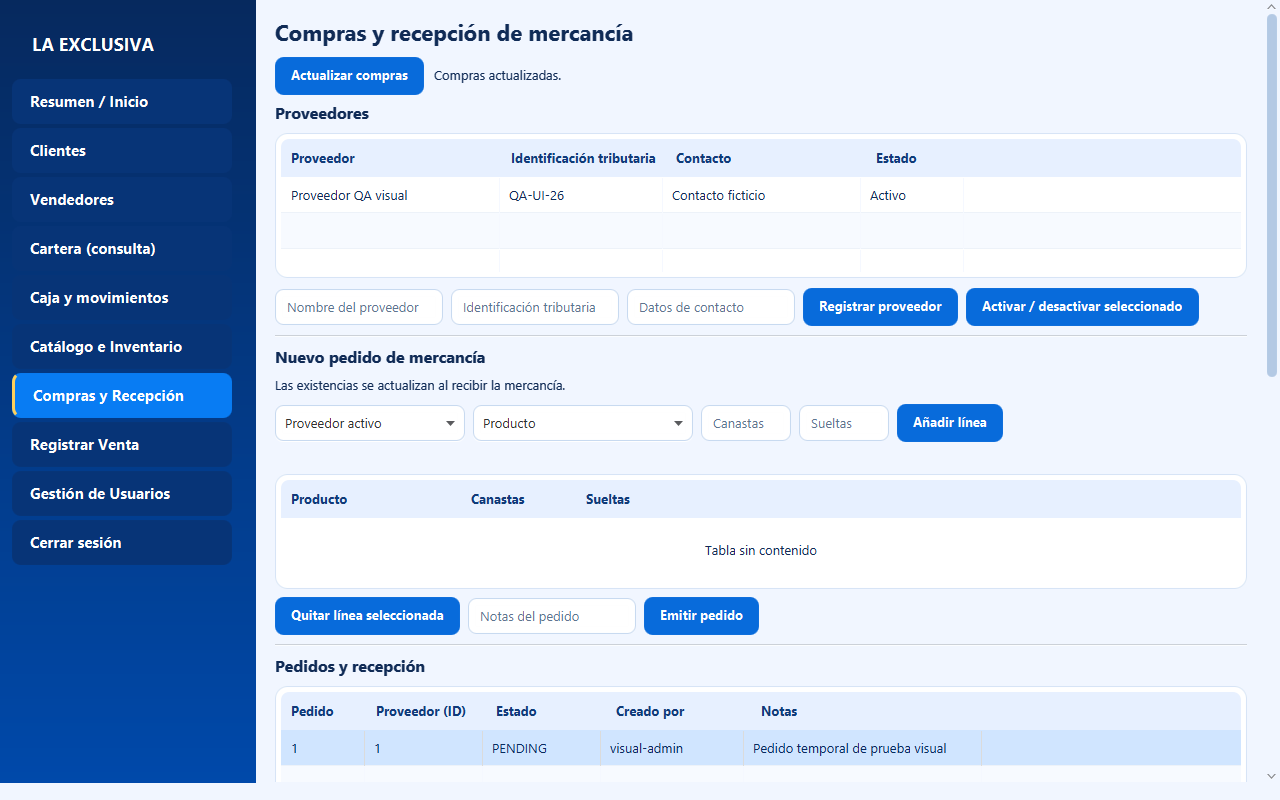
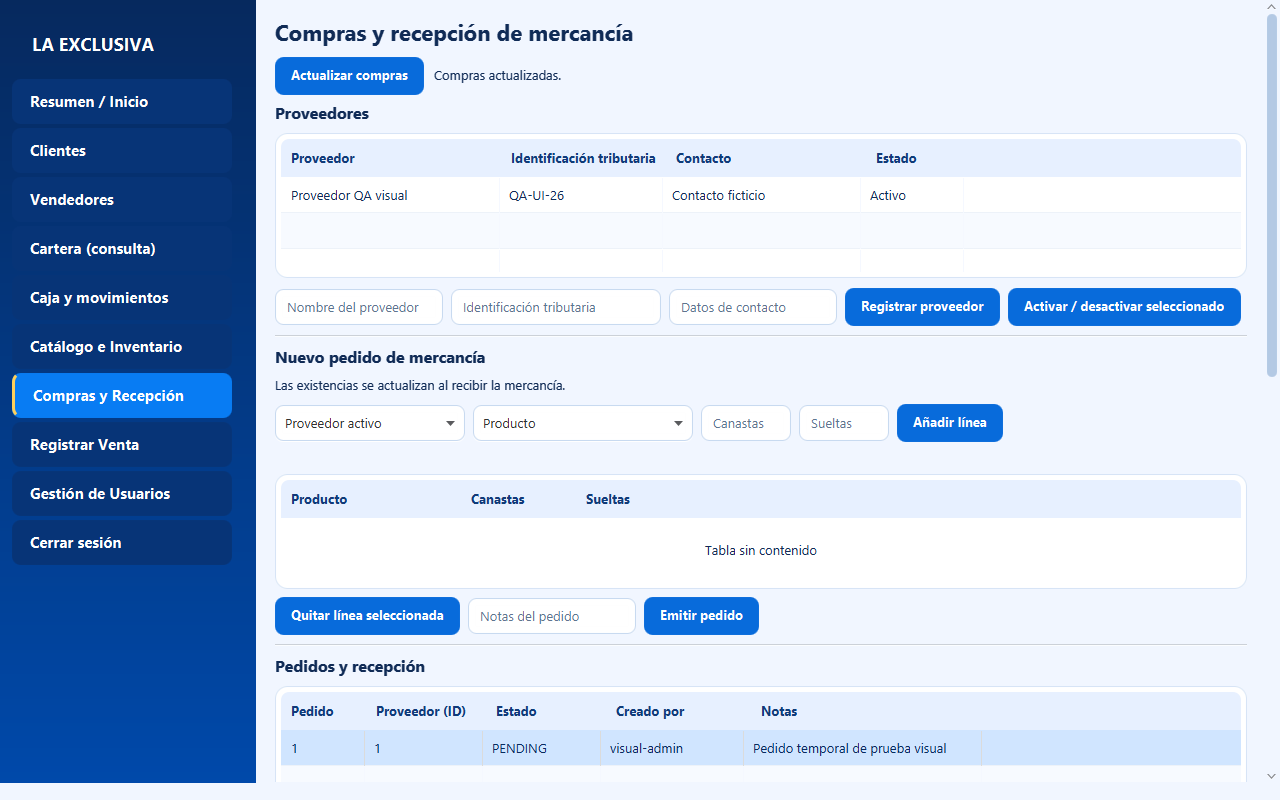
fix(ui): keep supplier tax prompt readable on Linux

Changed region(s): [[0.5, 0.3438, 0.9688, 0.4062]]

diff --git a/src/main/resources/com/laexclusiva/ui/css/theme.css b/src/main/resources/com/laexclusiva/ui/css/theme.css
@@ -90,3 +90,6 @@
 
 /* Evita recortar la ayuda del campo sin tocar el FXML que modifica el PR #26. */
 .workspace #generalDebtDescriptionField { -fx-pref-width: 230; }
+
+/* La ayuda tributaria debe caber también con las fuentes de Linux. */
+.workspace #supplierTaxId { -fx-pref-width: 210; }

diff --git a/docs/ai-usage/developer2-ai-log.md b/docs/ai-usage/developer2-ai-log.md
@@ -730,3 +730,13 @@ los resultados; no se usan por sí solos para atribuir uso de IA.
 * **Qué se acepta, modifica o descarta y por qué:** Se conservan los controles, eventos, sesiones, permisos, servicios y mascota original. No se aplican ajustes cosméticos a formularios que ya pasan las comprobaciones. Tab/MAYÚS+Tab conserva el orden y el botón predeterminado. El foco y estado deshabilitado se verifican sin modificar controladores. No se integra Alertas ni se inventa logo o información comercial.
 * **Verificación realizada:** Primera dirigida: 18 casos, dos errores agregados por contraste/nombres accesibles; repetición 18/18. Suite final con Temurin 17.0.21+9 y Maven offline clean verify: 841 casos, 781 aprobados, 60 PostgreSQL omitidos, 0 fallos/errores, incluidas 18 visuales. Capturas JavaFX reales inspeccionadas y documentadas; recorridos heredados a 1280×800, 1024×768 y 800×600 conservados. Sin SQL, migraciones o cambios Java de producción. Entradas anteriores preservadas byte por byte.
 * **Commit o Pull Request relacionado:** PR #25 en Draft; commit y CI pendientes de publicación al registrar esta entrada.
+### Continuación de la Interacción 46 – Ayuda tributaria legible en Ubuntu
+
+* **Fecha:** 23/11/2026.
+* **Herramienta:** Codex.
+* **Fase, tarea y rama:** Validación de GitHub Actions del commit f278ee1; feature/ui-modernization.
+* **Objetivo de la consulta:** Completar la revisión multiplataforma y corregir únicamente defectos demostrados antes de cerrar la entrega.
+* **Resumen de la respuesta recibida:** La CI 45291073097 detectó recorte de la ayuda de supplierTaxId en el formulario compacto de Compras. Se añadió un ancho CSS preferido de 210 px y se renovaron cinco capturas de Compras, sin tocar su FXML, controlador o servicio.
+* **Qué se acepta, modifica o descarta y por qué:** Se conserva la aserción estricta de legibilidad y se permite que el FlowPane redistribuya sus campos. No se integra el PR #27, no se altera la mascota ni los contratos funcionales.
+* **Verificación realizada:** CI inicial: 841 casos, 1 error, 60 omitidos. Repetición local con Temurin 17.0.21+9 y Maven offline clean verify: 841 casos, 781 aprobados, 60 PostgreSQL omitidos, 0 fallos/errores; 18 visuales aprobadas. Captura a 560×600 inspeccionada tras ampliar el campo. git diff --check correcto; sin SQL ni migraciones. Entradas anteriores conservadas byte por byte. CI de la corrección pendiente de publicación al registrar esta continuación.
+* **Commit o Pull Request relacionado:** PR #25 en Draft; corrección posterior a f278ee1.

diff --git a/docs/ui-modernization.md b/docs/ui-modernization.md
@@ -251,3 +251,15 @@ No se modifican Java de producción, App.java, launcher, iconos, servicios, SQL,
 migraciones, permisos ni el archivo original de mascota. Siguen pendientes el logo
 independiente y la integración de escritorio coordinada con Carlos. El PR #25 sigue
 Draft; la CI del nuevo commit se comprobará después de publicar.
+### Hallazgo adicional de CI: ayuda tributaria en Compras
+
+Las dos ejecuciones de Ubuntu del commit f278ee1 detectaron un único recorte en
+supplierTaxId al ampliar la prueba compacta a Compras (841 casos, 1 error, 60
+omitidos; run 45291073097). Se mantiene la aserción estricta y se reserva un ancho
+preferido de 210 px mediante CSS, sin cambiar FXML de Compras ni su controlador.
+El FlowPane redistribuye los campos; las capturas de Compras se renovaron.
+La repetición local de `mvn -o clean verify` con Temurin 17.0.21+9 pasa 841 casos:
+781 aprobados, 60 PostgreSQL omitidos y cero fallos/errores, incluidas 18 visuales.
+Este hallazgo amplía las correcciones anteriores: la revisión local de Windows
+no había reproducido ese recorte de fuente. La CI de la corrección se comprobará
+tras publicar, sin presentar los resultados anteriores fallidos como aprobados.
